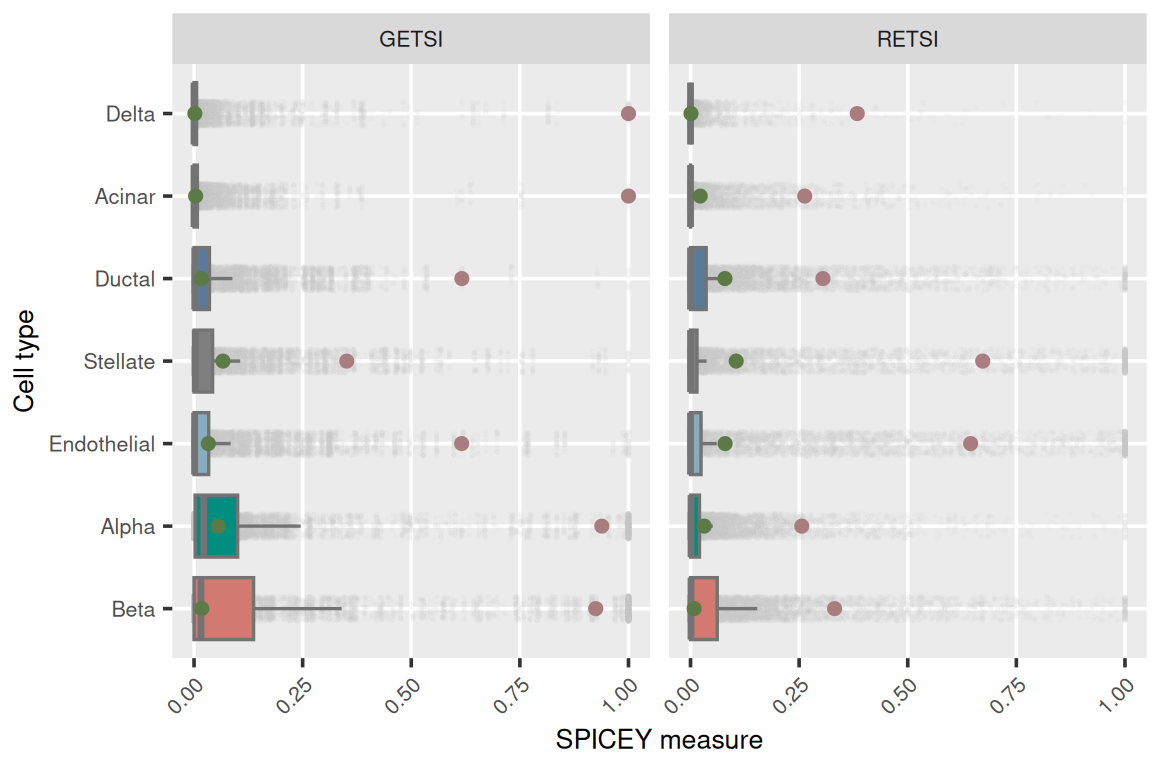
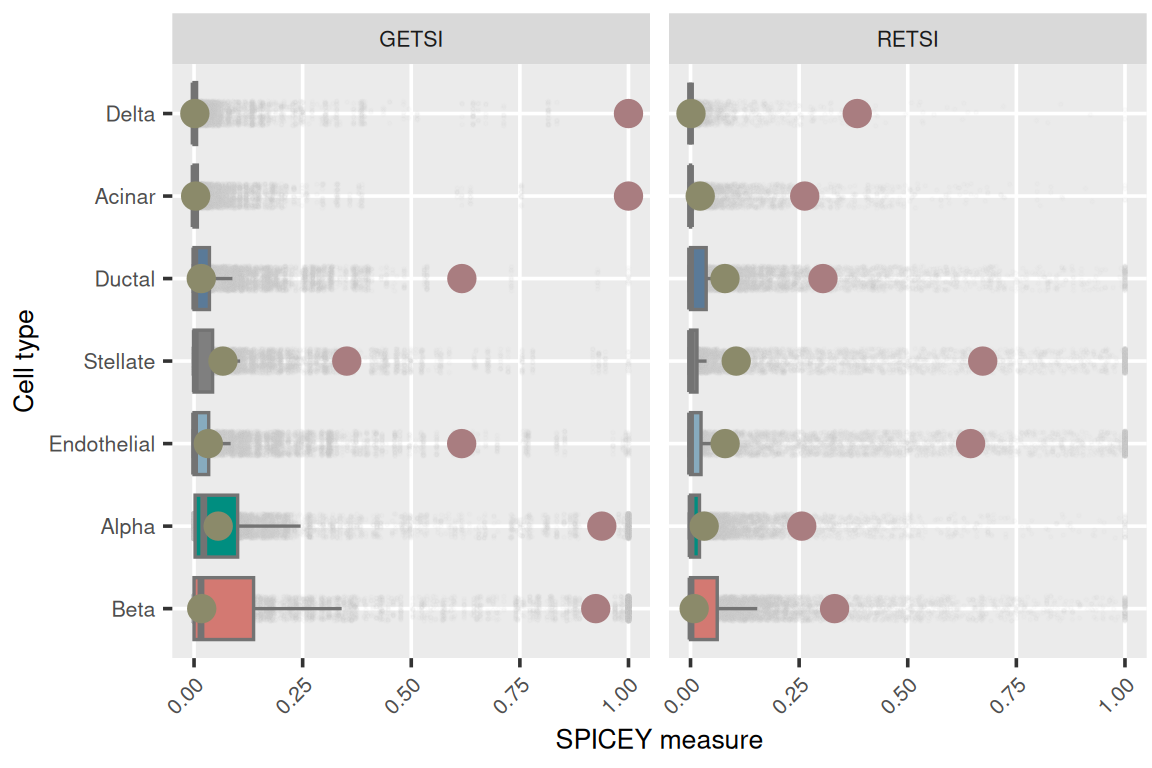
update repo w/ latest poster updates

diff --git a/HPAP_CTRL/posters/POSTER_EUROBIOC_20250805.html b/HPAP_CTRL/posters/POSTER_EUROBIOC_20250805.html
@@ -77,8 +77,8 @@ border-radius: 2mm;
 code {
 font-size: 25pt;
 font-family: monospace;
-background-color: #3a4d3424;
-color: #684548;
+background-color: #3a3a1e24;
+color: #926164;
 padding: 1.2mm;
 line-height: 1;
 border-radius: 2mm;
@@ -90,7 +90,7 @@ font-style: italic;
 }
 
 tbody tr:nth-child(odd) {
-    background-color: #3a4d3420;
+    background-color: #3a3a1e20;
 }
 .table>thead>tr>th, .table>tbody>tr>th, .table>tfoot>tr>th, .table>thead>tr>td, .table>tbody>tr>td, .table>tfoot>tr>td{
   border-spacing: 0;
@@ -115,7 +115,7 @@ font-style: italic;
 padding-top: 0;
 }
 .references {
-font-size: 35pt;
+font-size: 30pt;
 line-height: 90%;
 }
 /* Create three unequal columns that floats next to each other */
@@ -151,12 +151,12 @@ padding-top: 1em;
 padding-bottom: 1em;
 }
 span.citation {
-  color: #3a4d34;
+  color: #3a3a1e;
   font-weight: bold;
 }
 a {
 text-decoration: none;
-color: #3a4d34;
+color: #3a3a1e;
 }
 #title {
 font-size: 75pt;
@@ -168,7 +168,7 @@ font-weight: normal;
 background: 0;
 }
 #author {
-color: #684548;
+color: #926164;
 margin: 0;
 line-height: 85%;
 font-size: 65pt;
@@ -181,7 +181,7 @@ font-size: 35pt;
 margin: 0;
 }
 sup {
-color: #926164;
+color: #59583a;
 }
 .affiliation sup {
 font-size: 20px;
@@ -193,7 +193,7 @@ text-align: left;
 font-size: 30px;
 }
 .author_extra {
-color: #3a4d34;
+color: #3a3a1e;
 margin: 0;
 line-height: 85%;
 font-size: 45pt;
@@ -212,9 +212,9 @@ font-weight: bold;
       to left,
       #ffffff 1%,
       #ffffff 20%,
-      #68454875 33%,
-      #684548 50%,
-      #68454875 66%,
+      #92616475 33%,
+      #926164 50%,
+      #92616475 66%,
       #ffffff 80%,
       #ffffff 99%
     )
@@ -241,10 +241,10 @@ text-align: left;
 width: 37.40in;
 height: calc(73.23in * 0.15);
 position: absolute;
-background-color: #684548;
+background-color: #926164;
 color: #FFFFFF100;
 font-family: Lato;
-background-image: linear-gradient(#684548 50%,#3a4d34);
+background-image: linear-gradient(#926164 50%,#3a3a1e);
 }
 .main strong {
 color: #FFFFFF;
@@ -313,8 +313,8 @@ width: 37.40in;
 height: calc(73.23in * 4.0e-2);
 margin-top: calc(73.23in * (1 - 4.0e-2));
 position: absolute;
-background-color: #684548;
-background-image: linear-gradient(#3a4d34 10%, #684548);
+background-color: #926164;
+background-image: linear-gradient(#3a3a1e 10%, #926164);
 }
 .section {
   padding-left: 10mm;
@@ -417,10 +417,10 @@ span > #tab:mytable {
 
   /* Headers */
   h1 {
-    font-size: 67pt;
+    font-size: 62pt;
   }
   h2,h3,h4,h5,h6 {
-    font-size: 55pt;
+    font-size: 50pt;
   }
 
   /* Change space between figure and captions */
@@ -432,27 +432,27 @@ span > #tab:mytable {
     text-align: center; /* optional */
   }
 </style>
-<div style="height:60px;">
+<div style="height:5px;">
 
 </div>
 <div id="background" class="section level1">
 <h1>Background</h1>
 <p>Single-cell RNA and ATAC sequencing allow high-resolution profiling of gene expression and chromatin accessibility, revealing cell-type-specific regulatory programs. Yet, tools to quantify specificity across multiple cell types are still limited <span class="citation">(Lim <em>et al.</em>, 2024)</span>.</p>
 <p><strong>SPICEY</strong> (<strong>SP</strong>ecificity <strong>I</strong>ndex for <strong>C</strong>oding and <strong>E</strong>pigenetic activit<strong>Y</strong>) is the first R package to quantify cell-type specificity from single-cell multi-omic data, offering an intuitive pipeline for analyzing and visualizing transcriptomic and epigenomic specificity.</p>
-<div style="height:30px;">
+<div style="height:1px;">
 
 </div>
 </div>
 <div id="methods" class="section level1">
 <h1>Methods</h1>
 <div class="figure" style="text-align: center"><span style="display:block;" id="fig:workflow"></span>
-<img src="figs/SPICEY_wf.png" alt="SPICEY workflow. Differential single-cell RNA/ATAC data and region–gene annotations are used to compute specificity and entropy metrics, enabling the construction of tissue-specific regulatory networks." width="100%" height="100%" />
+<img src="figs/SPICEY_WF_FINAL.png" alt="SPICEY workflow. Differential single-cell RNA/ATAC data and region–gene annotations are used to compute specificity and entropy metrics, enabling the construction of tissue-specific regulatory networks." width="100%" height="100%" />
 <p class="caption">
 Figure 1: <em>SPICEY workflow</em>. Differential single-cell RNA/ATAC data and region–gene annotations are used to compute specificity and entropy metrics, enabling the construction of tissue-specific regulatory networks.
 </p>
 </div>
 
-<div style="height:20px;">
+<div style="height:5px;">
 
 </div>
 <div id="cell-type-specificity-indices" class="section level2">
@@ -490,16 +490,13 @@ H_{norm} = 1 - e^{H}
 <li><span class="math inline">\(H_{norm}\)</span> = normalized shannon entropy [0,1].</li>
 </ul>
 <p>Feature activity or expression is normalized across cell types to form a probability distribution, where low entropy indicates specificity to a few cell types, and high entropy reflects broad, uniform activity.</p>
-<div style="height:20px;">
+<div style="height:5px;">
 
 </div>
 </div>
 <div id="region-to-gene-annotation" class="section level2">
 <h2>Region-to-gene annotation</h2>
 <p>To help construct tissue-specific gene-regulatory networks, SPICEY optionally annotates regulatory regions to their putative target genes using (1) <strong>nearest-gene</strong> (based on proximity to the closest TSS), or (2) <strong>co-accessibility</strong> (using correlated chromatin accessibility).</p>
-<div style="height:30px;">
-
-</div>
 </div>
 </div>
 <div id="results" class="section level1">
@@ -530,22 +527,21 @@ Figure 4: Entropy metrics reveal lower values for tissue-specific features, conf
 </p>
 </div>
 
-<p><br></p>
+<div style="height:60px;">
+
+</div>
 </div>
 <div id="spicey-uncovers-both-known-and-novel-markers-in-human-pancreatic-islets" class="section level2">
 <h2>SPICEY uncovers both known and novel markers in human pancreatic islets</h2>
 <p>SPICEY identified well-known markers in endocrine cells (<em>INS, IGF2, SST, IRX1/IRX2</em>) <span class="citation">(Hauge-Evans <em>et al.</em>, 2009)</span> as well as less common ones like <em>ADCYAP1, SIX2</em>, and <em>LRFN5</em> <span class="citation">(Yamamoto <em>et al.</em>, 2003)</span>;<span class="citation">(Bevacqua <em>et al.</em>, 2021)</span><em>;</em> <span class="citation">(Elgamal <em>et al.</em>, 2023)</span><em>.</em></p>
-<p>It recovered established markers such as <em>REG1A/B, PI3, KRT</em> family, and <em>COL6A1</em>, for non-endocrine cells while also capturing novel potential candidates like <em>GIMAP</em> genes in endothelial cells (<strong>Figure</strong> <a href="#fig:main2">5</a>).</p>
+<p>It recovered established markers such as <em>REG1A/B, PI3, KRT</em> family, and <em>COL6A1</em> <span class="citation">(Reichert and Rustgi, 2011)</span>;<span class="citation">(Dorrell <em>et al.</em>, 2008)</span>;<span class="citation">(Dorrell, Grompe, <em>et al.</em>, 2011)</span>;<span class="citation">(Dorrell, Schug, <em>et al.</em>, 2011)</span>;<span class="citation">(Mathison <em>et al.</em>, 2010)</span>;<span class="citation">(Dabbs, 2013)</span>, for non-endocrine cells while also capturing novel potential candidates like <em>GIMAP</em> genes in endothelial cells (<strong>Figure</strong> <a href="#fig:main2">5</a>).</p>
 <div class="figure" style="text-align: center"><span style="display:block;" id="fig:main2"></span>
-<img src="POSTER_EUROBIOC_20250805_files/figure-html/main2-1.png" alt="Top SPICEY cell-type-specific features. The heatmap displays the top 5 genes for each cell type based on RETSI and GETSI z-scores. Rows represent genes and columns represent cell types. Darker colors indicate higher specificity." width="100%" height="100%" />
+<img src="POSTER_EUROBIOC_20250805_files/figure-html/main2-1.png" alt="Top SPICEY cell-type-specific features. The heatmap displays the top 5 genes for each cell type based on RETSI and GETSI z-scores. Rows represent genes and columns represent cell types. Darker colors indicate higher specificity." width="100%" height="100%" /><img src="POSTER_EUROBIOC_20250805_files/figure-html/main2-2.png" alt="Top SPICEY cell-type-specific features. The heatmap displays the top 5 genes for each cell type based on RETSI and GETSI z-scores. Rows represent genes and columns represent cell types. Darker colors indicate higher specificity." width="100%" height="100%" />
 <p class="caption">
 Figure 5: <em>Top SPICEY cell-type-specific features.</em> The heatmap displays the top 5 genes for each cell type based on RETSI and GETSI z-scores. Rows represent genes and columns represent cell types. Darker colors indicate higher specificity.
 </p>
 </div>
 
-<div style="height:30px;">
-
-</div>
 </div>
 </div>
 <div id="conclusions" class="section level1">
@@ -555,9 +551,6 @@ Figure 5: <em>Top SPICEY cell-type-specific features.</em> The heatmap displays 
 <li><p>Identifies both, known and novel markers across well-defined and less-studied cell types, distinguishing tissue-specific from broadly active features.</p></li>
 <li><p>Annotates regulatory elements to target genes helping elucidate tissue-specific regulatory networks.</p></li>
 </ul>
-<div style="height:30px;">
-
-</div>
 </div>
 <div id="references" class="section level1 unnumbered">
 <h1>References</h1>
@@ -567,6 +560,18 @@ Figure 5: <em>Top SPICEY cell-type-specific features.</em> The heatmap displays 
 </div>
 <div id="ref-bevacqua_six2_2021" class="csl-entry">
 • Bevacqua,R.J. <em>et al.</em> (2021) <a href="https://doi.org/10.1101/gad.342378.120"><span>SIX2</span> and <span>SIX3</span> coordinately regulate functional maturity and fate of human pancreatic β cells.</a> <em>Genes &amp; development</em>, <strong>35</strong>, 234–249.
+</div>
+<div id="ref-dabbs2013diagnostic" class="csl-entry">
+• Dabbs,D.J. (2013) Diagnostic immunohistochemistry.
+</div>
+<div id="ref-dorrell2008isolation" class="csl-entry">
+• Dorrell,C. <em>et al.</em> (2008) <a href="https://doi.org/10.1016/j.scr.2008.07.001">Isolation of major pancreatic cell types and long-term culture-initiating cells using novel human surface markers</a>. <em>Stem Cell Research</em>, <strong>1</strong>, 183–194.
+</div>
+<div id="ref-dorrell2011a" class="csl-entry">
+• Dorrell,C., Grompe,M.T., <em>et al.</em> (2011) <a href="https://doi.org/10.1016/j.mce.2011.04.008">Isolation of mouse pancreatic <span class="math inline">\(\alpha\)</span>, <span class="math inline">\(\beta\)</span>, duct and acinar populations with cell surface markers</a>. <em>Molecular and Cellular Endocrinology</em>, <strong>339</strong>, 144–150.
+</div>
+<div id="ref-dorrell2011b" class="csl-entry">
+• Dorrell,C., Schug,J., <em>et al.</em> (2011) <a href="https://doi.org/10.1007/s00125-011-2252-1">Transcriptomes of the major human pancreatic cell types</a>. <em>Diabetologia</em>, <strong>54</strong>, 2832–2844.
 </div>
 <div id="ref-elgamal_integrated_2023" class="csl-entry">
 • Elgamal,R.M. <em>et al.</em> (2023) <a href="https://doi.org/10.2337/db23-0130">An <span>Integrated</span> <span>Map</span> of <span>Cell</span> <span>Type</span>-<span>Specific</span> <span>Gene</span> <span>Expression</span> in <span>Pancreatic</span> <span>Islets</span>.</a> <em>Diabetes</em>, <strong>72</strong>, 1719–1728.
@@ -583,6 +588,12 @@ Figure 5: <em>Top SPICEY cell-type-specific features.</em> The heatmap displays 
 <div id="ref-lim_advances_2024" class="csl-entry">
 • Lim,J. <em>et al.</em> (2024) <a href="https://doi.org/10.1038/s12276-024-01186-2">Advances in single-cell omics and multiomics for high-resolution molecular profiling</a>. <em>Experimental &amp; Molecular Medicine</em>, <strong>56</strong>, 515–526.
 </div>
+<div id="ref-mathison2010pancreatic" class="csl-entry">
+• Mathison,A. <em>et al.</em> (2010) <a href="https://doi.org/10.1159/000313706">Pancreatic stellate cell models for transcriptional studies of desmoplasia-associated genes</a>. <em>Pancreatology</em>, <strong>10</strong>, 505–516.
+</div>
+<div id="ref-reichert2011pancreatic" class="csl-entry">
+• Reichert,M. and Rustgi,A.K. (2011) <a href="https://doi.org/10.1172/JCI57131">Pancreatic ductal cells in development, regeneration, and neoplasia</a>. <em>Journal of Clinical Investigation</em>, <strong>121</strong>, 4572–4578.
+</div>
 <div id="ref-yamamoto_overexpression_2003" class="csl-entry">
 • Yamamoto,K. <em>et al.</em> (2003) <a href="https://doi.org/10.2337/diabetes.52.5.1155">Overexpression of <span>PACAP</span> in transgenic mouse pancreatic beta-cells enhances insulin secretion and ameliorates streptozotocin-induced diabetes.</a> <em>Diabetes</em>, <strong>52</strong>, 1155–1162.
 </div>
@@ -591,7 +602,7 @@ Figure 5: <em>Top SPICEY cell-type-specific features.</em> The heatmap displays 
 
 </div>
 <div class="main">
-<p><img src="figs/main_spicey_white.png" style="width:90.0%" /></p>
+<p><img src="figs/main_spicey_white.png" style="width:95.0%" /></p>
 </div>
 <div class="main_bottom">
 <img id="main-img-left" src=figs/UPF.png>
